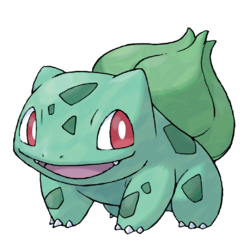
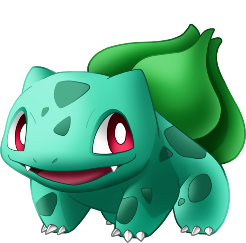
update imagens espelhadas

diff --git a/js/js.js b/js/js.js
@@ -5,43 +5,42 @@ import lista from './lista.js'
 const pokemons = lista['pokemons']
 var player1, player2
 
-function lutar(atributo){
+function lutar(atributo) {
     
-    document.getElementById('pokemon').style.animation="ataque 1s normal"
-    setTimeout(()=>{
-        document.getElementById('pokemon').style.animation=''
-    },1000)
-  try{
-    if(player1[atributo]>player2[atributo]){
-        console.log("pok1 ganha")
-        alert(`O pokemon ${player1}`)
-       
-    }else if(player1[atributo]==player2[atributo]){
-        alert("Deu empate")
-    }
-    
-    else{
-        console.log("pok2 ganha")
-        alert(`O pokemon ${player2}`)
-  
-    }
-  }
-  catch{
-    console.log('erro na função lutar')
-  }
+    document.getElementById('pokemon').style.animation = "ataque 1s normal"
+
+    setTimeout(() => {
+        document.getElementById('pokemon').style.animation = ''
+
+
+        if (player1[atributo] > player2[atributo]) {
+            console.log("pok1 ganha")
+            alert(`O pokemon ${player1}`)
+
+        } else if (player1[atributo] == player2[atributo]) {
+            alert("Deu empate")
+        }
+
+        else {
+            console.log("pok2 ganha")
+            alert(`O pokemon ${player2}`)
+
+        }
+    }, 1000)
+
 }
 
-function draw(lugar, pokemon){
+function draw(lugar, pokemon) {
     //lugar: pokemon ou pokemon2 será o id da div
     //pokemon: nome do pokemon a ser desenhado
     //cria uma div com id=lugar e backgorund-image=~pokemon
 
-    if(document.getElementById(lugar)){//verifica se já tem uma div lá
+    if (document.getElementById(lugar)) {//verifica se já tem uma div lá
         document.querySelector('.tela-luta').removeChild(document.getElementById(lugar))
     }
-    if(lugar=='pokemon'){
+    if (lugar == 'pokemon') {
         player1 = pokemons[pokemon]
-    }else{
+    } else {
         player2 = pokemons[pokemon]
     }
 
@@ -49,26 +48,26 @@ function draw(lugar, pokemon){
     let pok1 = document.createElement('div')
     pok1.id = lugar
     let url = pokemons[pokemon]['img']
-    
-    pok1.style.backgroundImage = "url(../images/bulbasaur.png)"
+
+      pok1.style.backgroundImage = "url("+url+")"
     document.querySelector('.tela-luta').appendChild(pok1)
-    
-    
-    
+
+
+
 }
 
 
-btnAtk.addEventListener('click',()=>{
-    
-    lutar(player1, player2, 'atk')
+btnAtk.addEventListener('click', () => {
+
+    lutar('atk')
 })
-btnDef.addEventListener('click', ()=>{
-    lutar(player1, player2, 'def')
+btnDef.addEventListener('click', () => {
+    lutar('def')
 })
-btnSpe.addEventListener('click', ()=>{
-    lutar(player1, player2, 'spe')
+btnSpe.addEventListener('click', () => {
+    lutar('spe')
 })
 
 
-draw('pokemon', 'bulbasaur')
-draw('pokemon2', 'bulbasaur')
+draw('pokemon', 'charmander')
+draw('pokemon2', 'charmander')

diff --git a/css/styles.css b/css/styles.css
@@ -1,11 +1,11 @@
-.tela-luta{
+.tela-luta {
     background-image: url('../images/campo-grama-700.jpg');
     width: 700px;
     height: 354px;
     border: solid;
 }
 
-#pokemon{
+#pokemon {
     position: absolute;
     background-repeat: no-repeat;
     left: 50px;
@@ -14,9 +14,10 @@
     height: 250px;
     width: 250px;
     background-position: center, center;
+    transform: scaleX(-1);
 }
 
-#pokemon2{
+#pokemon2 {
     background-size: 180px 180px;
     background-repeat: no-repeat;
     position: absolute;
@@ -28,20 +29,9 @@
     background-position: center, center;
 }
 
-/*#barra{
+#barra {
     background-image: url('../images/barra.png');
-    
-    position: absolute;
-    height: 120px;
-    width: 300px;
-    margin-top: 300px;
-    margin-left: 150px;
-    opacity: 80%;
-    z-index: 1;
-}*/
-#barra{
-    background-image: url('../images/barra.png');
-    
+
     position: absolute;
     height: 120px;
     width: 300px;
@@ -51,7 +41,7 @@
     /*z-index: 0;*/
 }
 
-#atk{
+#atk {
     position: absolute;
     left: 60px;
     top: 30px;
@@ -59,7 +49,8 @@
     width: 50px;
     background-image: url('../images/atk-50.png');
 }
-#def{
+
+#def {
     position: absolute;
     left: 140px;
     top: 30px;
@@ -67,7 +58,8 @@
     width: 50px;
     background-image: url('../images/shield-50.png');
 }
-#spe{
+
+#spe {
     position: absolute;
     left: 210px;
     top: 30px;
@@ -75,38 +67,43 @@
     width: 50px;
     background-image: url('../images/speed-55R.png');
 }
-@keyframes ataque{
-    0%{
-       left: 30px;
-       top: 150px; 
+
+@keyframes ataque {
+    0% {
+        left: 30px;
+        top: 150px;
     }
-    50%{
+
+    50% {
         left: 300px;
         top: 45px;
         background-size: 180px 180px;
     }
-    100%{
+
+    100% {
         left: 30px;
         top: 150px;
     }
 }
+
 @keyframes balanco {
 
-    0%{
+    0% {
         top: 0;
     }
-    50%{
+
+    50% {
         top: 5px;
     }
-    100%{
+
+    100% {
         top: 0;
     }
 
 
-  }
+}
 
 
 .balanco {
     animation: balanco 1s infinite;
 }
-  

diff --git a/js/lista.js b/js/lista.js
@@ -7,11 +7,11 @@ export default
                 "bulbasaur":{
                     "name": "bulbasaur",
                     "hp": 45,
-                    "attack": 49,
-                    "defense": 49,
-                    "speed": 10,
+                    "atk": 49,
+                    "def": 49,
+                    "spe": 10,
                     "type": "grass",
-                    "img": "/images/bulbasaur2.png"
+                    "img": "/images/bulbasaur.png"
                 },
                 
             
@@ -19,9 +19,9 @@ export default
                 "charmander":{
                     "name": "charmander",
                     "hp": 39,
-                    "attack": 52,
-                    "defense": 43,
-                    "speed": 65,
+                    "atk": 52,
+                    "def": 43,
+                    "spe": 65,
                     "type": "fire",
                     "img": "/images/charmander.png"
                 },
@@ -31,9 +31,9 @@ export default
                 "squirtle":{
                     "name": "squirtle",
                     "hp": 44,
-                    "attack": 48,
-                    "defense": 65,
-                    "speed": 43,
+                    "atk": 48,
+                    "def": 65,
+                    "spe": 43,
                     "type": "water",
                     "img": "/images/squirtle.png"
                 },
